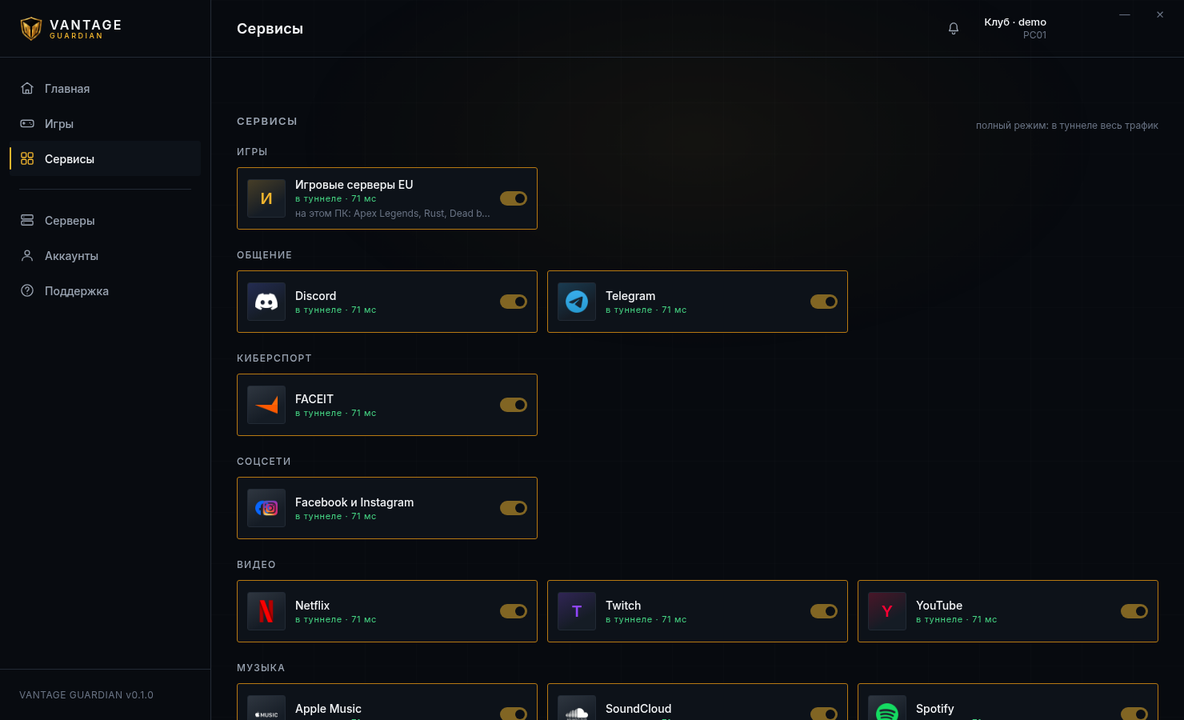
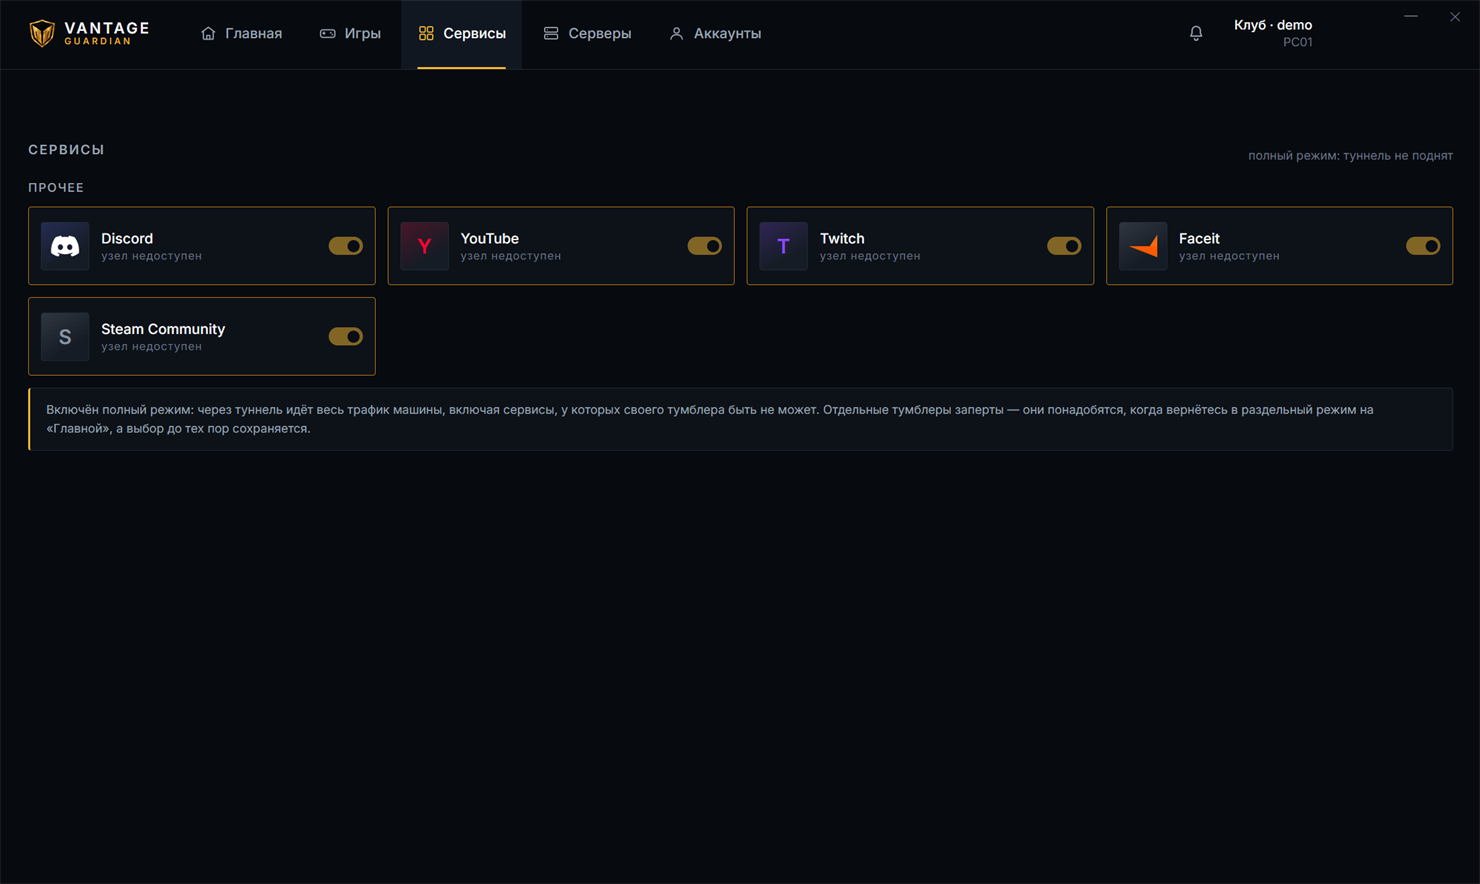
Выпуск 0.4.0: второй облик клиента
Главная страница дополнена разделом про новый облик, прежние снимки убраны
под свёрнутый блок и сохранены в screenshots/0.3.0. Снимки интерфейса
переcняты с версии 0.4.0.

diff --git a/README.md b/README.md
@@ -6,6 +6,34 @@
 
 ![Главный экран](screenshots/01-glavnaya.png)
 
+## Новый облик
+
+С версии 0.4.0 у клиента второй дизайн. С главного экрана убрано всё, что не
+отвечает на вопрос «защищён я сейчас или нет». Осталось три вещи: щит, кнопка
+под ним и строка с узлом и задержкой.
+
+- **щит вместо панели показателей** — состояние видно с одного взгляда, читать
+  ничего не нужно;
+- **разделы переехали в полосу сверху** — боковой панели больше нет, всё окно
+  отдано экрану;
+- **четыре игры на виду**, остальные — в разделе «Игры»;
+- фон стал ровным, декоративная сетка снята.
+
+<details>
+<summary><b>Как выглядело до 0.4.0</b></summary>
+
+Первый облик: боковая панель слева, ядро посреди окна, показатели вокруг него.
+Снимки оставлены, чтобы было видно, что изменилось.
+
+![Главная 0.3.0](screenshots/0.3.0/01-glavnaya.png)
+![Игры 0.3.0](screenshots/0.3.0/02-igry.png)
+![Сервисы 0.3.0](screenshots/0.3.0/03-servisy.png)
+![Выключено 0.3.0](screenshots/0.3.0/04-vyklyucheno.png)
+
+</details>
+
+## Что делает клиент
+
 Клиент поднимает защищённый туннель от машины клуба до игрового узла. Гость
 нажимает одну кнопку — дальше всё делает страж.
 
@@ -31,6 +59,10 @@ Discord, Telegram, стримы, музыка, рабочие и ИИ-серви
 
 ![Экран сервисов](screenshots/03-servisy.png)
 
+Где раздельный режим сервис покрывает не целиком, об этом написано на самой
+карточке: например, звонки Discord ходят по адресам, которые заворачивать
+нечем, и для них нужен полный туннель.
+
 ## До подключения
 
 Пока защита выключена, клиент так и говорит: трафик идёт напрямую.
@@ -52,7 +84,7 @@ Discord, Telegram, стримы, музыка, рабочие и ИИ-серви
 К каждому выпуску приложен `SHA256SUMS.txt` — проверьте загруженный файл:
 
 ```powershell
-Get-FileHash .\vantage-guardian_0.3.0_x64-setup.exe -Algorithm SHA256 | Format-List
+Get-FileHash .\vantage-guardian_0.4.0_x64-setup.exe -Algorithm SHA256 | Format-List
 ```
 
 ## Лицензия

diff --git a/ЧТО-НОВОГО.md b/ЧТО-НОВОГО.md
@@ -1,5 +1,29 @@
 # Что нового
 
+## 0.4.0
+
+**Клиент выглядит по-новому.** Главный экран собран заново и стал проще: щит
+посреди окна, под ним одна кнопка, а рядом — узел и задержка. Разделы переехали
+из боковой панели в полосу сверху, и окну достался весь свет: ничего, кроме
+защиты, на главном экране не осталось. Четыре игры показаны прямо там, полный
+список — в разделе «Игры».
+
+**Сервисы открываются и в раздельном режиме.** Раньше сайт Discord при
+включённой защите мог не открыться: у крупных сервисов десятки адресов, и часть
+из них клиент не заворачивал. Теперь он узнаёт адреса сервиса по ходу работы и
+добавляет их сам, ничего не спрашивая.
+
+У этого способа есть предел, и он написан прямо на карточке: **звонки Discord и
+обновление его клиента раздельный режим не покрывает** — они ходят по адресам,
+которые с нашими не совпадают. Нужны звонки — включите полный туннель.
+
+**Полный туннель предложен сразу.** При запуске переключатель стоит на полном
+режиме: одна кнопка — и защищён весь трафик машины. Раздельный никуда не делся,
+он рядом.
+
+**Раздел «Поддержка» убран.** Вопросы по работе в зале решает администратор
+клуба, а отчёт для него собирается там, где ему место, — в журнале событий.
+
 ## 0.3.0
 
 **Картинки игр.** В списке стало меньше карточек с буквой вместо картинки.

diff --git a/УСТАНОВКА.md b/УСТАНОВКА.md
@@ -6,8 +6,8 @@
 
 | Файл | Кому |
 |---|---|
-| `vantage-guardian_0.3.0_x64-setup.exe` | обычная установка на одну машину |
-| `vantage-guardian_0.3.0_x64_en-US.msi` | развёртывание на зал: тихая установка, групповые политики |
+| `vantage-guardian_0.4.0_x64-setup.exe` | обычная установка на одну машину |
+| `vantage-guardian_0.4.0_x64_en-US.msi` | развёртывание на зал: тихая установка, групповые политики |
 
 Оба файла ставят одно и то же. Выбор только в способе установки.
 
@@ -16,7 +16,7 @@
 Рядом лежит `SHA256SUMS.txt`. В PowerShell:
 
 ```powershell
-Get-FileHash .\vantage-guardian_0.3.0_x64-setup.exe -Algorithm SHA256 | Format-List
+Get-FileHash .\vantage-guardian_0.4.0_x64-setup.exe -Algorithm SHA256 | Format-List
 ```
 
 Строка `Hash` обязана совпасть с той, что в `SHA256SUMS.txt`. Не совпала — файл
@@ -24,7 +24,7 @@ Get-FileHash .\vantage-guardian_0.3.0_x64-setup.exe -Algorithm SHA256 | Format-L
 
 ## Установка на одну машину
 
-Запустить `vantage-guardian_0.3.0_x64-setup.exe` и пройти мастер. Клиент встанет
+Запустить `vantage-guardian_0.4.0_x64-setup.exe` и пройти мастер. Клиент встанет
 в `Program Files`, заведёт ярлык и значок в трее.
 
 Windows может показать «Неизвестный издатель»: сборка пока не подписана
@@ -33,13 +33,13 @@ Windows может показать «Неизвестный издатель»:
 ## Установка на зал (тихая)
 
 ```powershell
-msiexec /i vantage-guardian_0.3.0_x64_en-US.msi /quiet /norestart
+msiexec /i vantage-guardian_0.4.0_x64_en-US.msi /quiet /norestart
 ```
 
 Удаление:
 
 ```powershell
-msiexec /x vantage-guardian_0.3.0_x64_en-US.msi /quiet /norestart
+msiexec /x vantage-guardian_0.4.0_x64_en-US.msi /quiet /norestart
 ```
 
 ## Настройка клуба
